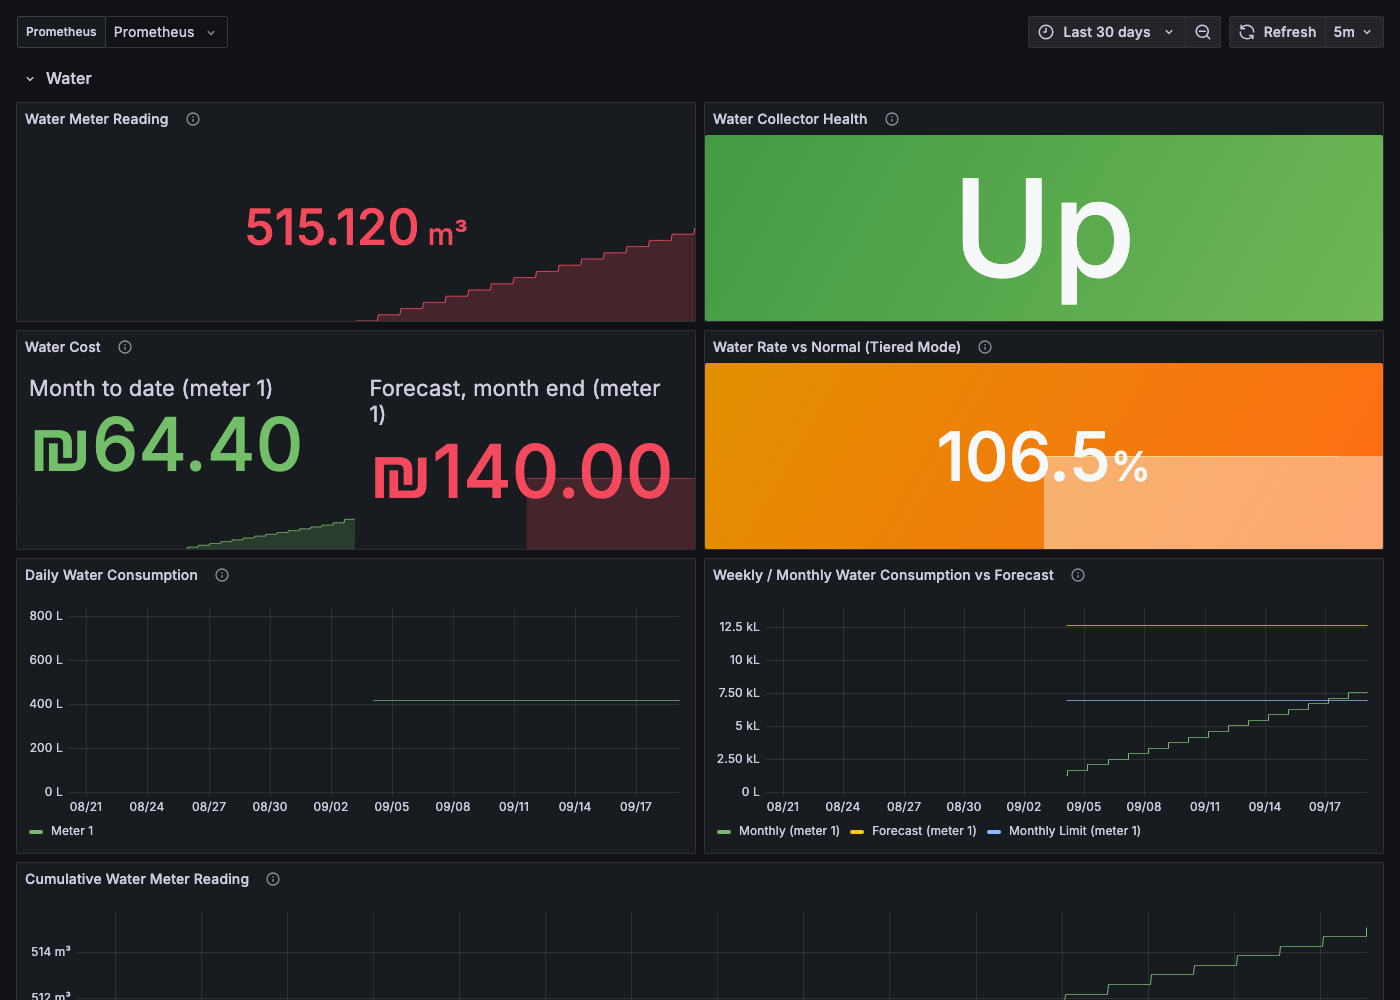
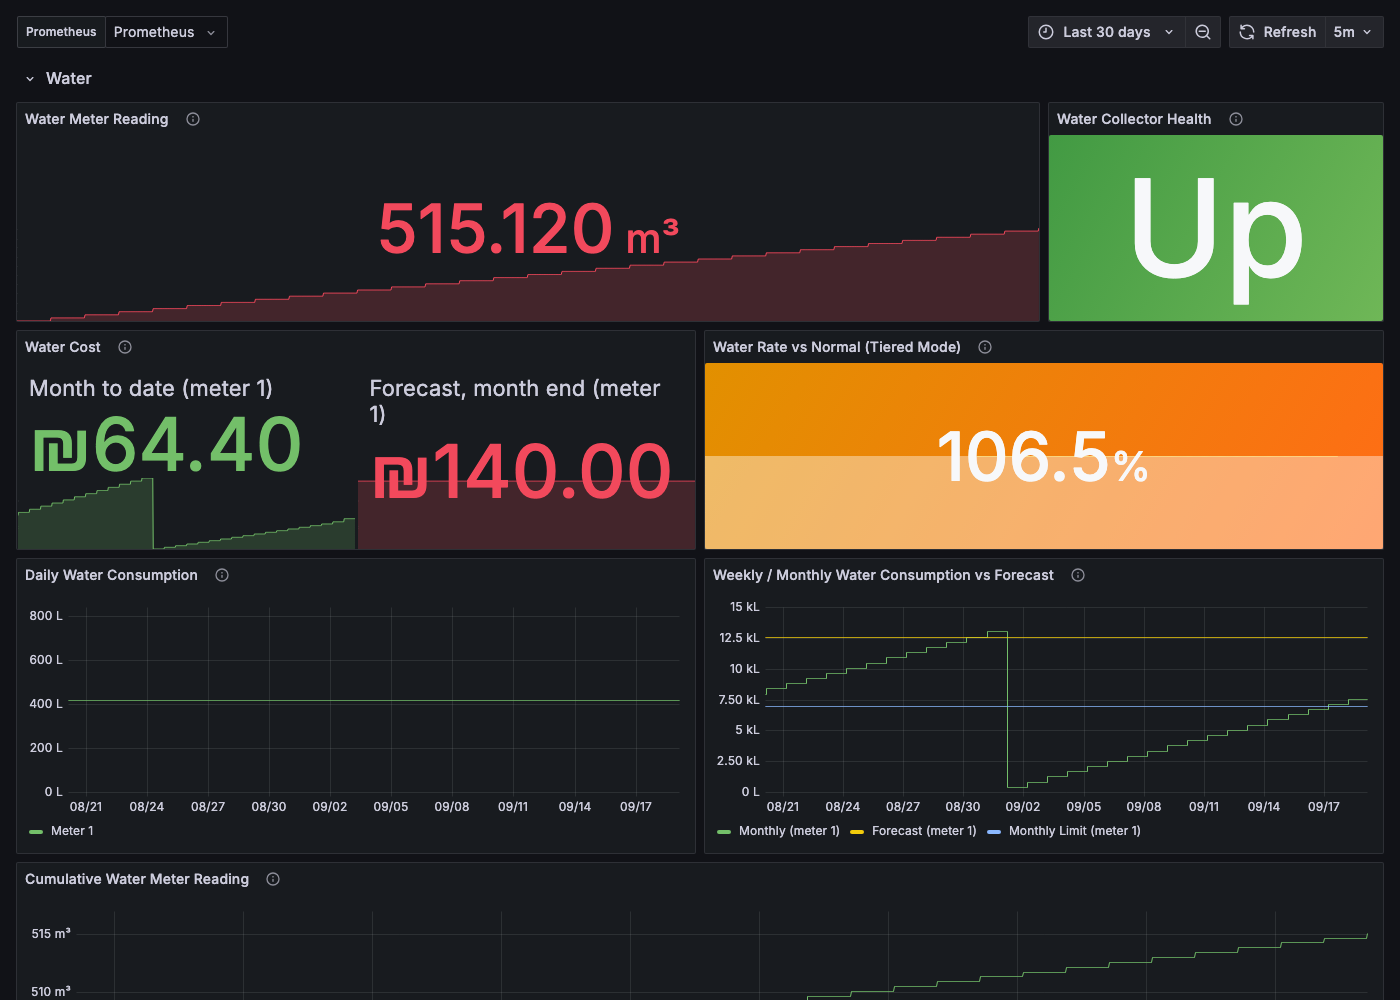
fix: rebalance the dashboard's identity rows, redesign electricity's row too
The water row gave the collector-health badge (just "Up"/"Down") half the
row's width, same as the meter reading (which actually has a sparkline
worth the space) — a bad use of space, more pronounced now that the
pricing-row redesign put water's layout under more scrutiny. Widened
meter reading to 3/4 of the row and narrowed health to 1/4, for both water
and electricity.

Also gives electricity's row the same design pass water's pricing row got:
split the single 4-panel row into an identity row (meter reading, health)
and a money row (cost estimate, effective rate), and added the sparkline
treatment to "Effective Rate" for consistency with "Cost Estimate".

Replaced both dashboard screenshots in the README to match, and confirmed
electricity's effective-rate panel genuinely renders a value in the demo
data rather than showing "not configured".

diff --git a/CHANGELOG.md b/CHANGELOG.md
@@ -50,17 +50,27 @@ headings in the `## [x.y.z] - YYYY-MM-DD` form.
   tariff config never had an equivalent field either. Existing schedule
   files that still set `currency` continue to load fine; the key is just
   ignored.
-- Redesigned the water dashboard's pricing row: merged "Cost Estimate" and
-  "Forecast Cost Estimate" into one "Water Cost" panel (both values, plus a
-  sparkline of the month-to-date figure over the dashboard's time range, so
-  the cost trend is visible instead of only the current number), dropped the
-  standalone "Tariff Threshold" panel (redundant with the dashed "Monthly
-  Limit" line already on the consumption graph), and gave "Effective Rate" a
-  background color flag (green/orange) driven by the new
-  `israel_utility_water_tariff_normal_rate_ils_per_cubic_meter` metric, so
-  crossing into the excess tier is visible at a glance instead of requiring
-  a mental comparison against a number you have to already know. Six stat
-  panels in that row down to four.
+- Redesigned the dashboard's Water and Electricity rows for consistency and
+  less wasted space:
+  - Each row's meter-reading panel now gets most of the row's width (it has
+    a sparkline worth seeing); collector health is just an Up/Down badge and
+    now only gets a narrow strip instead of half the row.
+  - Water: merged "Cost Estimate" and "Forecast Cost Estimate" into one
+    "Water Cost" panel (both values, plus a sparkline of the month-to-date
+    figure over the dashboard's time range, so the cost trend is visible
+    instead of only the current number), dropped the standalone "Tariff
+    Threshold" panel (redundant with the dashed "Monthly Limit" line already
+    on the consumption graph), and replaced "Effective Rate" with "Water
+    Rate vs Normal" — the blended rate as a percentage of the configured
+    normal (below-allowance) rate, using the new
+    `israel_utility_water_tariff_normal_rate_ils_per_cubic_meter` metric —
+    100% means every m3 so far is priced at the normal rate, and the panel
+    background turns orange once the month has spilled into the excess
+    tier. Six stat panels in that row down to four.
+  - Electricity: split the single 4-panel row into an identity row (meter
+    reading, health) and a money row (cost estimate, effective rate), matching
+    water's layout, and gave "Cost Estimate" and "Effective Rate" the same
+    sparkline treatment as water's cost panels.
 
 ## [0.5.0] - 2026-09-18
 

diff --git a/README.md b/README.md
@@ -305,17 +305,24 @@ Plus `israel_utility_exporter_build_info{version="..."}`.
 
 ![Water pricing row: cost estimate with a month-to-date sparkline, and the effective rate as a percentage of the normal rate, turning orange once the excess tier kicks in](docs/dashboard-water-pricing.png)
 
+![Electricity row: meter reading, collector health, cost estimate, and the schedule-mode effective rate, both with the same sparkline treatment as water](docs/dashboard-electricity.png)
+
 - `grafana/provisioning/dashboards/files/dashboard.json` — auto-provisioned by
   `docker-compose.yml`, or import it manually into your own Grafana. Two
   rows, Water and Electricity, each showing the cumulative meter trend,
   daily/monthly consumption over time, cost estimate, and collector health —
-  a row simply shows "No data" if that collector is disabled. The water
-  row's pricing panels (screenshot above) show month-to-date cost and the
+  a row simply shows "No data" if that collector is disabled. Each row's
+  meter-reading panel gets most of the width, since it's the one with a
+  sparkline worth seeing; collector health is just an Up/Down badge, so it
+  only gets a narrow strip rather than half the row. The water row's
+  pricing panels (top screenshot) show month-to-date cost and the
   portal's forecast side by side with a sparkline of the trend, plus the
   effective rate expressed as a percentage of the normal (below-allowance)
   rate — 100% means every m3 so far is priced at the normal rate, and the
   panel background turns orange once the month has spilled into the pricier
-  excess tier.
+  excess tier. Electricity's pricing row (bottom screenshot) is simpler —
+  no tiers, so no equivalent rate-vs-normal panel — but its cost estimate
+  gets the same sparkline treatment for visual consistency.
 - `prometheus/alerts.yml` — two rule groups:
   - **Health alerts** (safe to run as shipped): the exporter being
     unreachable, either collector going stale (no successful poll in 6h) or
